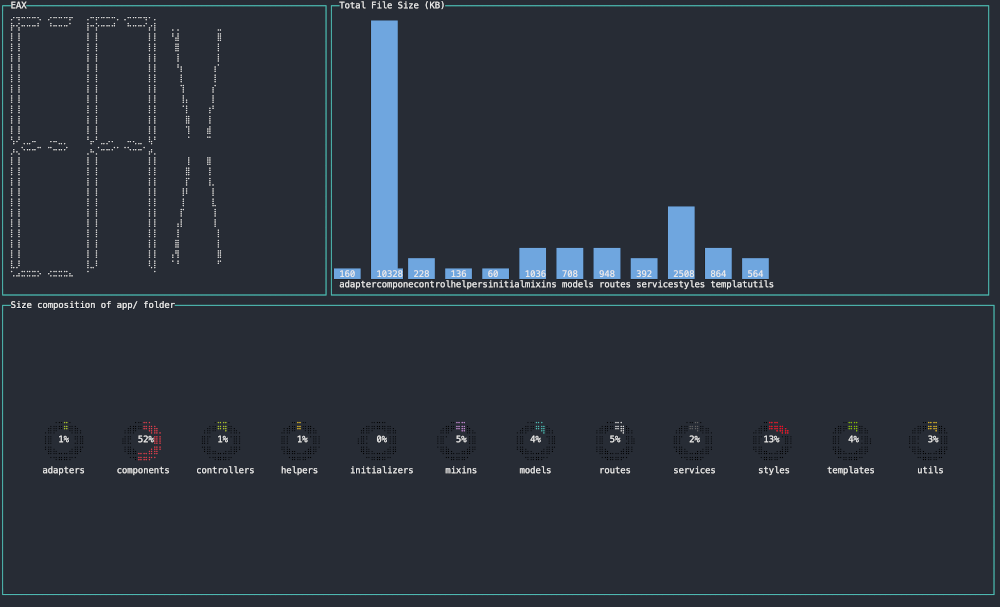
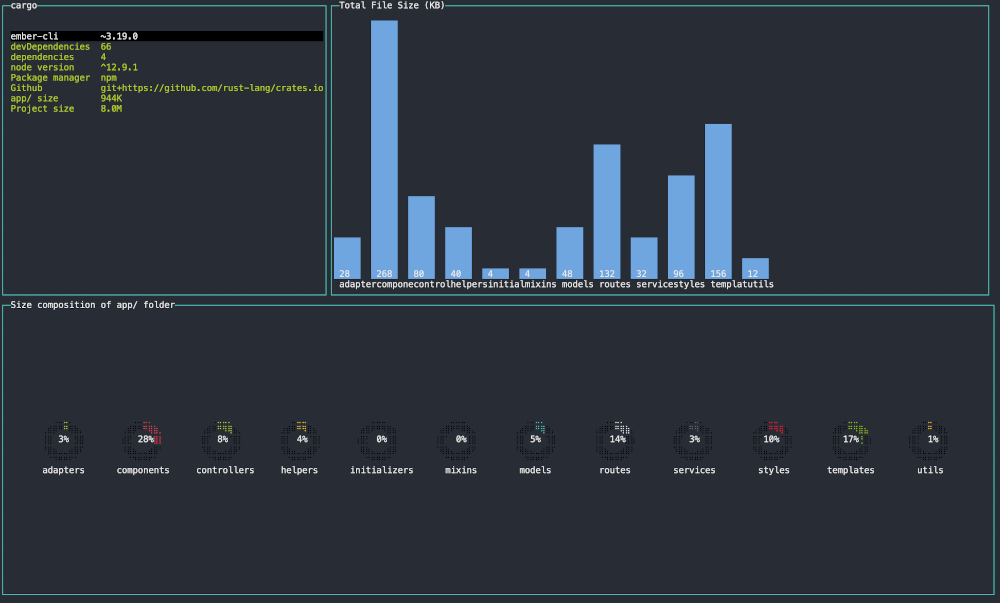
docs: add faqs section and replace home page

diff --git a/README.md b/README.md
@@ -52,4 +52,25 @@ eax ~/Users/user/code/my-ember-app
     ['Go to the end of any list', 'G']
 ```
 
+## FAQs
 
+### How do I quit this thing?
+You can press `q`, or `Esc` or `C-c` to quit the program at any time.
+
+### How can I see the keyboard shortcuts for navigating?
+Press `?` to see the keyboard navigation shortcuts page.
+
+### How can I quickly navigate to home page screen?
+Press `h` to go to the home page.
+
+### How do I navigate between different pages of the cli?
+You can use the arrow keys to navigate between pages, `Left Arrow` to previous screen
+and `Right Arrow` to next screen.
+
+### How can I search for items in the list?
+Press `/` to search in any list. A popup dialog will appear to enter the search term,
+if the search functionality is enabled for that list where you have the focus.
+The search term is fuzzy which means you can search for any part of the name.
+
+### Does it support vi/vim navigation keys in the lists?
+Yes
